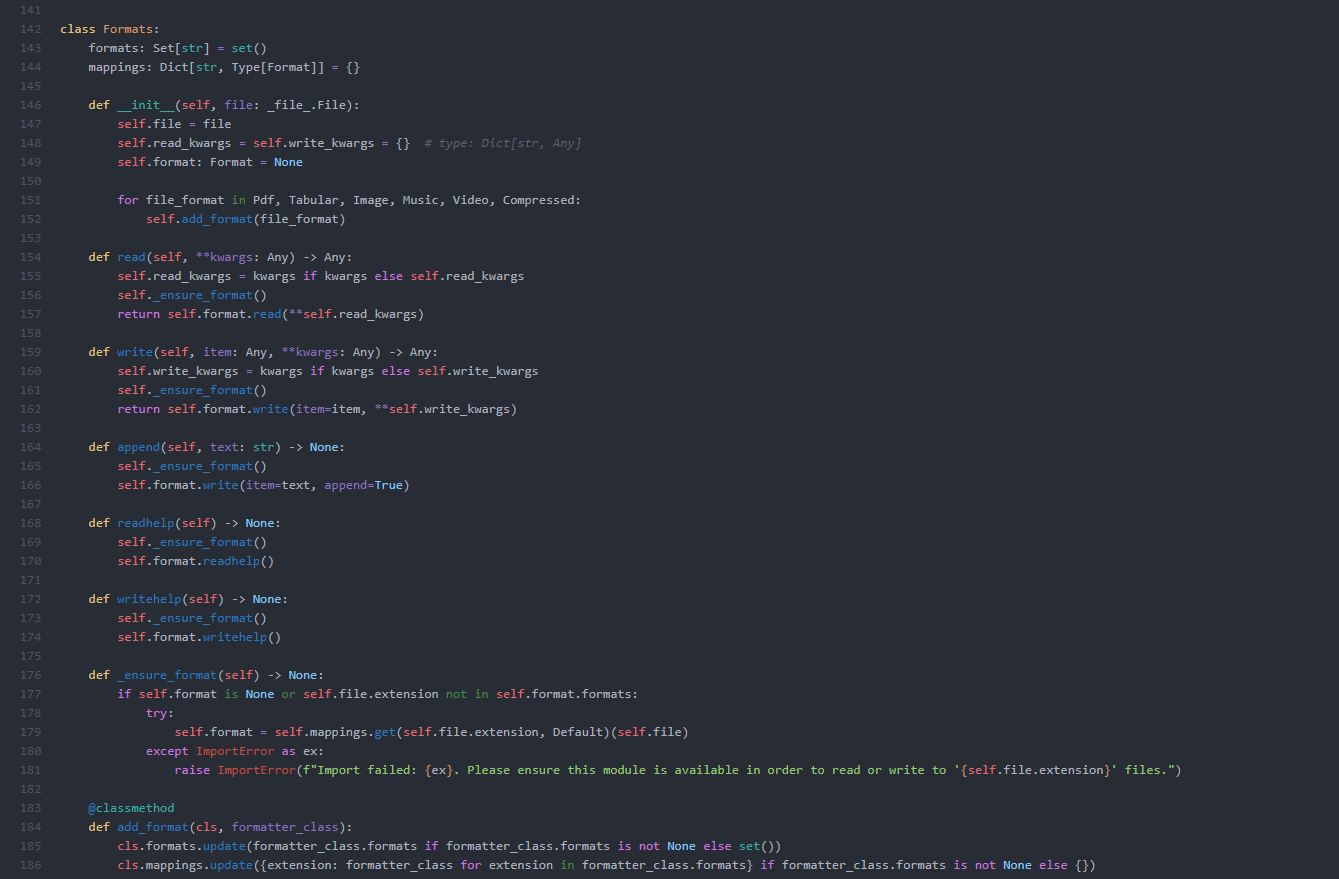
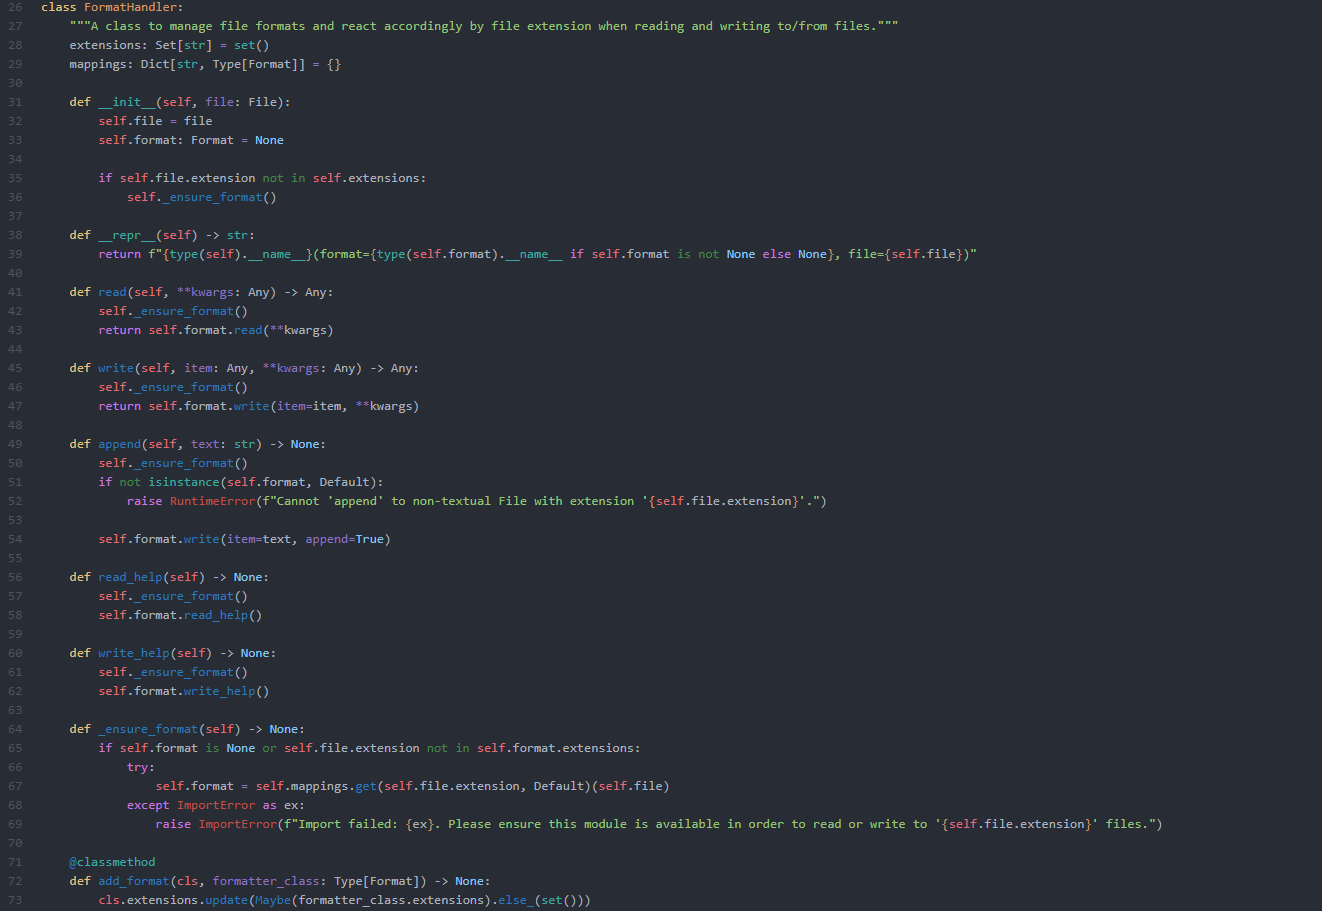
Make minor color change and update to version 2.2.6

diff --git a/styles/syntax/python.less b/styles/syntax/python.less
@@ -131,10 +131,10 @@
         color: @orange;
      }
 
-    //
-    // .syntax--entity.syntax--other.syntax--inherited-class.syntax--python {
-    //     color: @monochrome;
-    //  }
+
+    .syntax--entity.syntax--other.syntax--inherited-class.syntax--python {
+        color: @orange;
+     }
 
     // Invalids ------------------------------------------------------------------------------------------------------------------------------------------------------
 

diff --git a/styles/syntax/_base.less b/styles/syntax/_base.less
@@ -16,7 +16,7 @@
   }
 
   &.syntax--other.syntax--inherited-class {
-    color: @lightgreen;
+    color: @yellow;
   }
 }
 

diff --git a/CHANGELOG.md b/CHANGELOG.md
@@ -27,3 +27,7 @@
 * Made deprecated builtins (such as 'file') no longer receive any syntax highlighting.
 * Changed magic variables such as module-level dunders from lightred to teal.
 * Uploaded a new image to reflect the changes since the last one was uploaded.
+
+# 2.2.6 - Minor color change
+* Changed inherited classes to the same color as classes themselves (orange) in the class declaration statement
+* Uploaded a new image.
